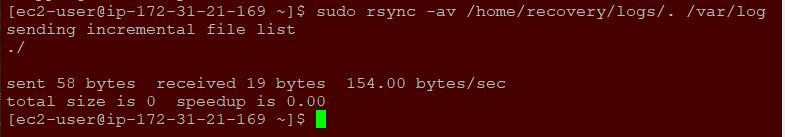
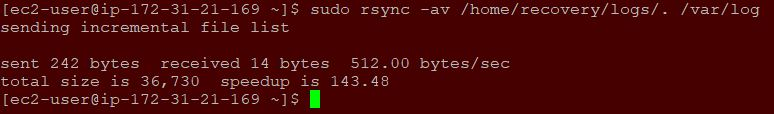
database steps update

diff --git a/project6.md b/project6.md
@@ -15,7 +15,7 @@ Use `RedHat` O.S. for this project and `ec2-user` as yhe username when connectin
 
 **LAUNCH AND PREPARE AN EC2 INSTANCE THAT WIL SERVE AS `WEB SERVER`**
 
-On AWS console, create 3 volumes of 10GB each and and on the same AZ as the `web serve` and have them attached on the `web server` EC2 instance.
+On AWS console, create 3 volumes of 10GB each and on the same AZ as the `web server` and have them attached on the `web server` EC2 instance.
 
 1. Open the `Linux` terminal and inspect what block devices are attached by running the below command:
    - `lsblk`
@@ -74,14 +74,14 @@ On AWS console, create 3 volumes of 10GB each and and on the same AZ as the `web
        
        ![step9b](./project6Pictures/step9b_p6.JPG)
 
-1. Mark each of 3 disks as physical volumes (PVs) to be used by LVM usint the utility `pvcreate`.
+1. Mark each of 3 disks as physical volumes (PVs) to be used by LVM using the utility `pvcreate`.
      - `sudo pvcreate /dev/xvdf1`
      - `sudo pvcreate /dev/xvdg1`
      - `sudo pvcreate /dev/xvdh1`
 
        ![step10](./project6Pictures/step10_p6.JPG)
 
-1. Verify the Physical volume has been created successfully by running sudo `pvs`.
+1. Verify the Physical volume has been created successfully by running `sudo pvs`.
      - `sudo pvs`
      
        ![step11](./project6Pictures/step11_p6.JPG)
@@ -96,7 +96,7 @@ On AWS console, create 3 volumes of 10GB each and and on the same AZ as the `web
      
        ![step13](./project6Pictures/step13_p6.JPG)
 
-1. Create 2 logical volumes `apps-lv`to store data for the Website and `logs-lv` used to store data for logs using `lvcreate` utility.
+1. Create 2 logical volumes `apps-lv` to store data for the Website and `logs-lv` used to store data for logs using `lvcreate` utility.
      - `sudo lvcreate -n apps-lv -L 14G webdata-vg`
      - `sudo lvcreate -n logs-lv -L 14G webdata-vg`
      
@@ -152,7 +152,7 @@ On AWS console, create 3 volumes of 10GB each and and on the same AZ as the `web
        ![step22](./project6Pictures/step22_p6.JPG)
 
 1. Restore the log files back into `/var/log` directory.
-     - `sudo rsync /home/recovery/logs/. /var/log`
+     - `sudo rsync -av /home/recovery/logs/. /var/log`
           
        ![step23](./project6Pictures/step23_p6.JPG)
 
@@ -161,7 +161,7 @@ On AWS console, create 3 volumes of 10GB each and and on the same AZ as the `web
           
        ![step24a](./project6Pictures/step24a_p6.JPG)
 
-      - `sudo vi /etc/fstab`(paste the UUID on the fstab file)
+      - `sudo vi /etc/fstab` (paste the UUID on the fstab file)
           
         ![step24b](./project6Pictures/step24b_p6.JPG)
 
@@ -170,5 +170,121 @@ On AWS console, create 3 volumes of 10GB each and and on the same AZ as the `web
      - `sudo systemctl daemon-reload`
      - `sudo df -h`
           
-       ![step25](./project6Pictures/step24a_p6.JPG)
+       ![step25](./project6Pictures/step25_p6.JPG)
 
+**LAUNCH AND PREPARE AN EC2 INSTANCE THAT WIL SERVE AS `DATABASE SERVER`**
+
+On AWS console, create 3 volumes of 10GB each and on the same AZ as the `db server` and have them attached on the `db server` EC2 instance.
+
+1. Open the `Linux` terminal and inspect what block devices are attached by running the below command:
+   - `lsblk`
+
+     ![step26](./project6Pictures/step26_p6.JPG)
+
+    
+1. Create a single partition on each of the 3 disks using `gdisk` utility.
+   - `sudo gdisk /dev/xvdf`
+
+     ![step27](./project6Pictures/step27_p6.JPG)
+
+1. Create partitions for the remaining disks and use `lsblk` utility to view the newly configured partition on each of the 3 disks.
+   - `lsblk`
+
+     ![step28](./project6Pictures/step28_p6.JPG)
+
+1. Install `lvm2` package and then run sudo `lvmdiskscan` to check for available partitions.
+   - `sudo yum install lvm2`
+
+     ![step29a](./project6Pictures/step29a_p6.JPG)
+
+    - `sudo lvmdiskscan`
+
+      ![step29b](./project6Pictures/step29b_p6.JPG)
+
+1. Mark each of 3 disks as physical volumes (PVs) to be used by LVM using the utility `pvcreate`.
+   - `sudo pvcreate /dev/xvdf1`
+   - `sudo pvcreate /dev/xvdg1`
+   - `sudo pvcreate /dev/xvdh1`
+
+     ![step30](./project6Pictures/step30_p6.JPG)
+
+1. Verify the Physical volume has been created successfully by running `sudo pvs`.
+   - `sudo pvs`
+
+     ![step31](./project6Pictures/step31_p6.JPG)
+
+1. Add all 3 PVs to a volume group (VG). Name the VG `dbdata-vg` using the utility `vgcreate`.
+   - `sudo vgcreate dbdata-vg /dev/xvdh1 /dev/xvdg1 /dev/xvdf1`
+
+     ![step32](./project6Pictures/step32_p6.JPG)
+
+1. Verify that the VG has been created successfully.
+   - `sudo vgs`
+
+     ![step33](./project6Pictures/step33_p6.JPG)
+
+1. Create 2 logical volumes `db-lv` to store data for the Website and `logs-lv` used to store data for logs using `lvcreate` utility.
+   - `sudo lvcreate -n db-lv -L 14G dbdata-vg`
+   - `sudo lvcreate -n logs-lv -L 14G dbdata-vg`
+ 
+     ![step34](./project6Pictures/step34_p6.JPG)
+
+1. Verify the Logical Volume has been created successfully.
+   - `sudo lvs`
+
+     ![step35](./project6Pictures/step35_p6.JPG)
+
+1. Format the Logical Volumes with `ext4` filesystem.
+   - `sudo mkfs -t ext4 /dev/dbdata-vg/db-lv`
+
+     ![step36a](./project6Pictures/step36a_p6.JPG)
+
+    - `sudo mkfs -t ext4 /dev/dbdata-vg/logs-lv`
+
+      ![step36b](./project6Pictures/step36b_p6.JPG)
+
+1. Create `/db` directory to store the database and `/home/recovery/logs` directory to store database logs.
+   - `sudo mkdir /db`
+
+     ![step37a](./project6Pictures/step37a_p6.JPG)
+
+    - `sudo mkdir -p /home/recovery/logs`
+
+      ![step37b](./project6Pictures/step37b_p6.JPG)
+
+1. Mount `/db` on `db-lv` Logical Volume.
+   - `sudo mount /dev/dbdata-vg/db-lv /db`
+
+     ![step38](./project6Pictures/step38_p6.JPG)
+
+1. Before mounting the filesystem, use `rsync` utility to backup all the files from the log directory `/var/log` into `/home/recovery/logs`.
+     - `sudo rsync -av /var/log/. /home/recovery/logs/`
+          
+       ![step39](./project6Pictures/step39_p6.JPG)
+
+1. Mount `/var/log` on `logs-lv` Logical Volume. Note that all the existing data om `/var/log` will be deleted.
+
+     - `sudo mount /dev/dbdata-vg/logs-lv /var/log`
+          
+       ![step40](./project6Pictures/step40_p6.JPG)
+
+1. Restore the log files back into `/var/log` directory.
+     - `sudo rsync -av /home/recovery/logs/. /var/log`
+          
+       ![step41](./project6Pictures/step41_p6.JPG)
+
+1. Update the `/etc/fstab` file so that the mount configuration will persist after restart of the server. We will use the UUID of the device to update the `/etc/fstab` file. 
+     - `sudo blkid`
+          
+       ![step42a](./project6Pictures/step42a_p6.JPG)
+
+      - `sudo vi /etc/fstab` (paste the UUID on the fstab file)
+          
+        ![step42b](./project6Pictures/step42b_p6.JPG)
+
+1. Test the configuration, reload the daemon and verify the setup. 
+     - `sudo mount -a`
+     - `sudo systemctl daemon-reload`
+     - `sudo df -h`
+          
+       ![step43](./project6Pictures/step43_p6.JPG)
